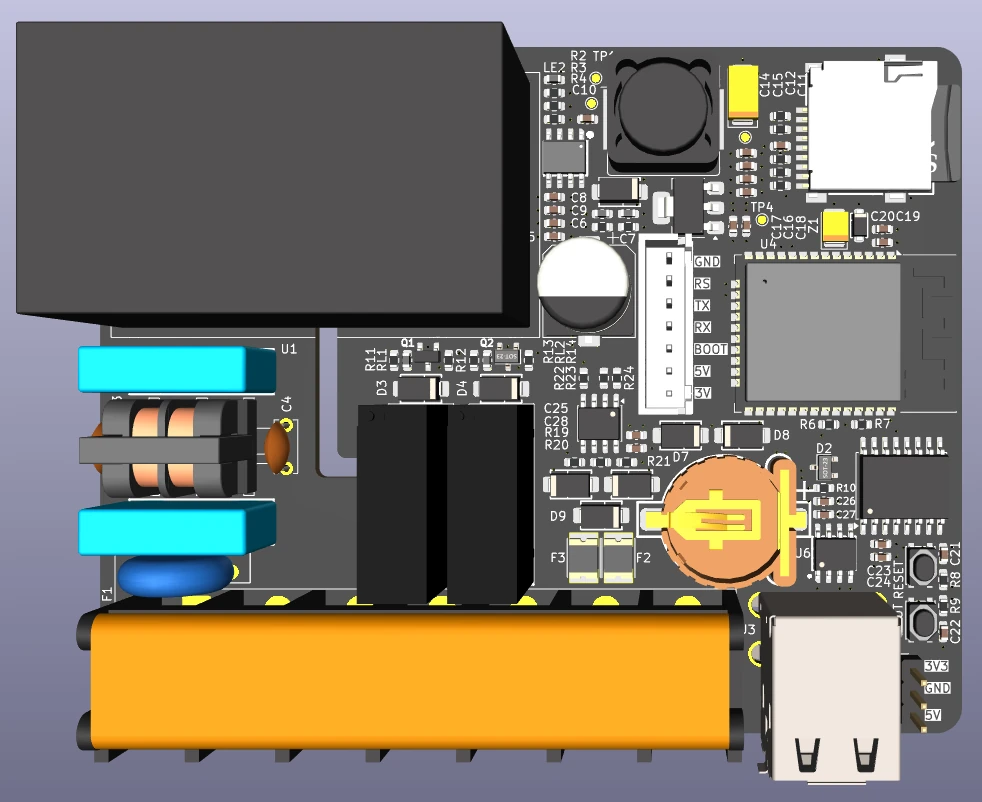
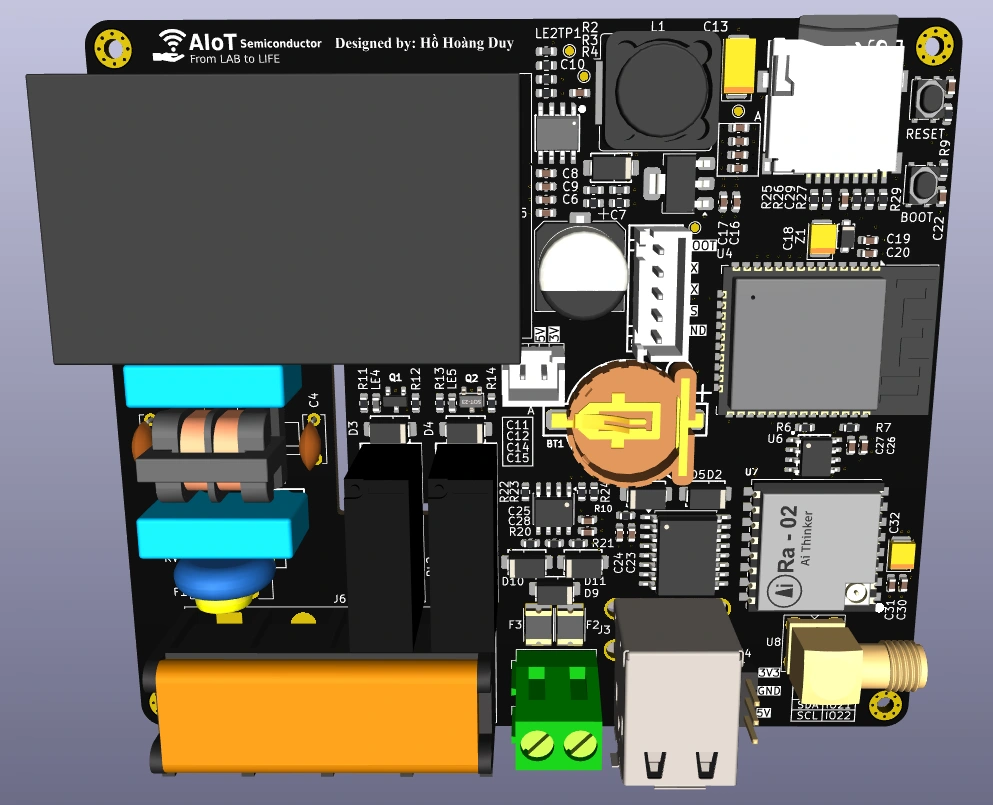
Add ESP32 deployment architecture and update board render

diff --git a/src/app/project-details.css b/src/app/project-details.css
@@ -26,3 +26,5 @@
 .interactive-bom{overflow:hidden;border:1px solid #62576b;border-radius:7px;background:#17171d;min-width:0}.interactive-bom-toolbar{display:flex;align-items:center;justify-content:space-between;gap:16px;flex-wrap:wrap;padding:16px 18px;border-bottom:1px solid #514858;background:#211d28}.interactive-bom-toolbar>div:first-child{display:flex;flex-direction:column;gap:6px}.interactive-bom-toolbar span{font-size:10px;letter-spacing:.1em;color:#ff9abb;font-weight:700}.interactive-bom-toolbar strong{color:#fff;font-size:14px}.interactive-bom-actions{display:flex;gap:10px;flex-wrap:wrap}.interactive-bom-actions button,.interactive-bom-actions a{display:inline-flex;align-items:center;justify-content:center;min-height:42px;padding:9px 14px;border:1px solid #786b83;border-radius:5px;background:#302637;color:#fff;font-size:12px;font-weight:600}.interactive-bom-actions button:hover,.interactive-bom-actions a:hover{background:#452b3b;border-color:#ff6b9d}.interactive-bom iframe{display:block;width:100%;height:780px;height:clamp(640px,80vh,900px);border:0;background:#fff}.interactive-bom:fullscreen{display:flex;flex-direction:column;border:0;border-radius:0;background:#17171d}.interactive-bom:fullscreen iframe{flex:1;height:auto;min-height:0}.project-documentation .interactive-bom-help{padding:10px 18px;font-size:13px;color:#ffe0a6;background:#292219}.interactive-bom-toolbar:has(+.interactive-bom-help){border-bottom:0}@media(max-width:799px){.interactive-bom-toolbar{padding:12px}.interactive-bom-actions{width:100%}.interactive-bom-actions>*{flex:1}.interactive-bom iframe{height:800px}}
 
 .board-overview strong{color:#fff}.board-feature-cards{display:grid;grid-template-columns:repeat(2,minmax(0,1fr));gap:16px}.board-feature-cards article{display:flex;align-items:flex-start;gap:16px;padding:22px;border:1px solid #45404c;border-radius:12px;background:#1d1b23}.feature-icon{display:grid;place-items:center;flex:none;width:44px;height:44px;border-radius:10px;background:#322331;color:#ff94b7}.board-feature-cards h3{font-size:16px;line-height:1.5;color:#fff}.project-documentation .board-feature-cards p{font-size:14px;line-height:1.75;margin-top:6px;color:#d4d2db}.stackup-summary{display:flex;flex-wrap:wrap;gap:12px;margin-bottom:22px}.stackup-summary>span{padding:10px 14px;border:1px solid #514858;border-radius:6px;color:#d4d2db;font-size:13px}.stackup-summary strong{color:#fff}.stackup-table tbody th::before{content:'';display:inline-block;width:20px;height:6px;margin-right:10px;background:#84818b;vertical-align:middle}.stackup-table tr[data-kind="copper"] th::before{background:#d6b64d}.stackup-table tr[data-kind="core"] th::before{background:#7cab81}.stackup-table tbody th{white-space:nowrap}.stackup-table table{min-width:820px}@media(max-width:699px){.board-feature-cards{grid-template-columns:1fr}.board-feature-cards article{padding:18px}.stackup-summary{flex-direction:column}}
+
+.esp32-deployment{margin:0 0 64px;padding:32px;border:1px solid #514858;border-radius:12px;background:#15151beb}.deployment-eyebrow{color:#ff94b7;font-size:11px;letter-spacing:.12em}.esp32-deployment h2{font-size:28px;margin:12px 0 20px;text-transform:none}.esp32-deployment>p{font-size:15px;line-height:1.9;margin-bottom:18px;color:#d4d2db}.deployment-flow{display:grid;grid-template-columns:2fr .65fr 1.4fr .65fr 1.2fr;align-items:center;gap:14px;margin:28px 0}.deployment-nodes,.deployment-gateway{border:1px solid #65526d;border-radius:10px;padding:18px;background:#211d28}.deployment-flow h3{font-size:16px;text-align:center;color:#fff;margin-bottom:14px}.deployment-node{display:grid;grid-template-columns:1fr 1fr;gap:12px;align-items:center;margin-bottom:18px}.deployment-node figure{margin:0;min-width:0}.deployment-node figcaption{text-align:center;font-size:12px;color:#fff;margin-top:6px}.deployment-node>div{display:flex;flex-direction:column;gap:6px;font-size:10px;color:#d4d2db}.deployment-node strong{color:#ffabc7;font-size:12px}.deployment-nodes>small{font-size:11px;color:#ffabc7}.deployment-gateway p,.deployment-cloud p{font-size:12px;line-height:1.8;text-align:center;margin-top:16px}.deployment-gateway img{width:100%;height:auto}.deployment-link{text-align:center;display:flex;flex-direction:column;gap:8px;align-items:center;color:#ff94b7}.deployment-link>span{font-size:32px}.deployment-link strong{font-size:12px}.deployment-link small{font-size:10px;line-height:1.7;color:#d4d2db}.deployment-cloud{text-align:center}.deployment-cloud svg{width:100%;fill:#3e3154}.deployment-cloud h3{margin-top:6px}.cloud-app{margin:20px auto 0;padding:14px;border:1px solid #65526d;border-radius:8px;max-width:150px;color:#e8deef;font-size:11px}.cloud-app i{display:block;height:18px;background:#302637;border:1px solid #514858;border-radius:4px;margin-top:8px}.esp32-deployment .deployment-caption{border-top:1px solid #514858;padding-top:16px;font-size:12px;margin-bottom:0}.architecture-scroll{overflow-x:auto}.esp32-block-diagram svg{display:block;width:100%;min-width:620px;height:auto}.esp32-block-diagram rect{stroke:#bd7898;stroke-width:1.5;fill:#211d28}.esp32-block-diagram .power-block rect{fill:#302637}.esp32-block-diagram .controller-block rect{fill:#202b37;stroke:#82adbe}.esp32-block-diagram text{fill:#fff;font:600 21px Arial,sans-serif}.esp32-block-diagram .block-file{font:14px Arial,sans-serif;fill:#c4bacf}.esp32-block-diagram .block-bus{font:15px Arial,sans-serif;fill:#ffabc7}.block-wires{stroke:#95bcd6;stroke-width:2}.esp32-block-diagram figcaption{font-size:12px;color:#d4d2db;margin-top:16px}@media(max-width:999px){.deployment-flow{grid-template-columns:1fr;gap:18px}.deployment-nodes,.deployment-gateway,.deployment-cloud{width:100%;max-width:500px;margin:auto}.deployment-gateway img{max-width:220px;margin:auto}.deployment-link>span{transform:rotate(90deg)}.deployment-node figure{max-width:160px}.deployment-cloud svg{max-width:160px}.deployment-node>div{font-size:13px}.deployment-node strong{font-size:14px}}@media(max-width:599px){.esp32-deployment{padding:22px 16px}.esp32-deployment h2{font-size:24px}.deployment-node{gap:14px}.deployment-nodes{padding:16px}}

diff --git a/src/components/BoardDetails.tsx b/src/components/BoardDetails.tsx
@@ -3,6 +3,7 @@ import Image from 'next/image';
 import dynamic from 'next/dynamic';
 import { useEffect, useId, useRef, useState, type KeyboardEvent } from 'react';
 import { label, type Board } from '@/lib/projects';
+import { ESP32BlockDiagram, ESP32Deployment } from './ESP32Architecture';
 
 const PCBViewer=dynamic(()=>import('./pcb-viewer/PCBViewer'),{ssr:false,loading:()=> <p className="pcb-viewer-notice" role="status">Loading PCB viewer…</p>});
 
@@ -73,6 +74,7 @@ export function BoardProjectDetails({board}:{board:Board}) {
     {isDemo&&<p className="revision-demo-message" role="status">Demo revision metadata. The board image and documentation below are shared previews.</p>}
     <div className="detail-hero"><div className="detail-summary"><h1>{board.name}</h1><section className="board-overview" aria-labelledby="board-overview-title"><h2 id="board-overview-title">Overview</h2>{board.overview?.length?board.overview.map((paragraph,index)=><p key={index}>{paragraph.title&&<strong>{paragraph.title}: </strong>}{paragraph.text}</p>):<p>{board.description}</p>}</section><div className="notice">{board.disclaimer}</div>{board.specs.length>0&&<dl className="specs">{board.specs.map(spec=><div key={spec.label}><dt>{spec.label}</dt><dd>{spec.value}</dd></div>)}</dl>}{board.repoUrl&&<a className="button" href={board.repoUrl} target="_blank" rel="noopener noreferrer">Project repository ↗</a>}</div><BoardGallery board={board}/></div>
     <FeatureTabs board={board}/>
+    {board.slug==='esp32-devkit'&&<ESP32Deployment/>}
   </>;
 }
 
@@ -100,7 +102,7 @@ export function FeatureTabs({ board }: { board: Board }) {
   return <section className="project-documentation" aria-label="Project documentation"><div className="tablist" role="tablist" aria-label="Engineering sections">{tabs.map((tab,index)=><button ref={element=>{buttons.current[index]=element;}} key={tab} role="tab" id={id+'-tab-'+index} aria-controls={id+'-panel-'+index} aria-selected={active===index} tabIndex={active===index?0:-1} onClick={()=>selectTab(index)} onKeyDown={event=>keyboard(event,index)}>{tab}</button>)}</div><div className="tabpanel" role="tabpanel" tabIndex={0} id={id+'-panel-'+active} aria-labelledby={id+'-tab-'+active}>
     <h2>{title}</h2>
     {title==='Key Features'&&(board.featureCards?.length?<div className="board-feature-cards">{board.featureCards.map(feature=><article key={feature.title}><span className="feature-icon" aria-hidden="true"><FeatureIcon kind={feature.icon}/></span><div><h3>{feature.title}</h3><p>{feature.text}</p></div></article>)}</div>:<ul className="board-feature-list">{board.features.map(feature=><li key={feature}>{feature}</li>)}</ul>)}
-    {title==='Block Diagram'&&(diagram?<figure className="board-diagram"><Image src={diagram.src} width={1000} height={600} alt={diagram.alt}/><figcaption>{diagram.alt}</figcaption></figure>:<DemoBlockDiagram board={board}/>)}
+    {title==='Block Diagram'&&(board.slug==='esp32-devkit'?<ESP32BlockDiagram/>:diagram?<figure className="board-diagram"><Image src={diagram.src} width={1000} height={600} alt={diagram.alt}/><figcaption>{diagram.alt}</figcaption></figure>:<DemoBlockDiagram board={board}/>)}
     {title==='Stackup'&&<>{board.stackupDetails&&<><div className="stackup-summary"><span><strong>{board.stackupDetails.copperLayers}</strong> copper layers</span><span><strong>{board.stackupDetails.totalThicknessMm} mm</strong> total thickness</span><span>Impedance control: <strong>{board.stackupDetails.impedanceControlled?'enabled in KiCad':'disabled'}</strong></span></div><div className="table-scroll stackup-table"><table><caption className="sr-only">ESP32 Devkit PCB stackup, from top to bottom</caption><thead><tr>{['Layer','Type','Material','Thickness','Epsilon R','Loss Tan'].map(column=><th scope="col" key={column}>{column}</th>)}</tr></thead><tbody>{board.stackup?.map(layer=><tr key={layer.layer} data-kind={layer.type.toLowerCase()}><th scope="row">{layer.layer}</th><td>{layer.type}</td><td>{layer.material||'Not specified'}</td><td>{layer.thicknessMm!==undefined?layer.thicknessMm+' mm':'—'}</td><td>{layer.epsilonR??'—'}</td><td>{layer.lossTan??'—'}</td></tr>)}</tbody></table></div></>}{!board.stackup?.length&&<DemoNote>Example 4-layer stackup for layout preview. Actual layer count, materials and thickness are not specified yet.</DemoNote>}{!board.stackupDetails&&<div className="stackup">{layers.map(layer=><div key={layer.layer}><span><b>{layer.layer}</b> · {layer.type}</span><span>{[layer.material,'thicknessMm' in layer&&layer.thicknessMm!==undefined?String(layer.thicknessMm)+' mm':undefined].filter(Boolean).join(' / ')}</span></div>)}</div>}</>}
     {(title==='Preview'||previewVisited)&&<div className="pcb-preview-panel" hidden={title!=='Preview'}>{board.pcbSource?<PCBViewer source={board.pcbSource} active={title==='Preview'}/>:<div className="pcb-source-missing"><h3>PCB source not available yet</h3><p>A KiCad PCB file has not been supplied for this project.</p></div>}{!!board.files?.length&&<div className="board-file-links">{board.files.map(file=><a key={file.href} className="button" href={file.href} download>{file.label} ↓</a>)}</div>}</div>}
     {title==='BOM'&&(board.interactiveBom?<InteractiveBom bom={board.interactiveBom}/>:<>{!board.components?.length&&<DemoNote>Sample parts for layout preview. These are not the project’s actual components or purchasing quantities.</DemoNote>}<BomTable components={board.components?.length?board.components:demoBom}/></>)}

diff --git a/src/components/ESP32Architecture.tsx b/src/components/ESP32Architecture.tsx
@@ -1,0 +1,12 @@
+import Image from 'next/image';
+
+export function ESP32BlockDiagram(){
+ const inputs=[['SHT31','SHT31.kicad_sch','I2C'],['RTC','RTC.kicad_sch','I2C'],['EEPROM','EEPROM.kicad_sch','I2C'],['SD CARD','SDCARD.kicad_sch','SPI']];
+ return <figure className="esp32-block-diagram"><div className="architecture-scroll"><svg viewBox="0 0 1000 660" role="img" aria-labelledby="esp32-block-title esp32-block-desc"><title id="esp32-block-title">ESP32 Devkit system block diagram</title><desc id="esp32-block-desc">220VAC to 24VDC, 5VDC and 3.3VDC supply. SHT31, RTC and EEPROM connect to ESP WROOM 32D over I2C. SD card connects over SPI. Relay and RS485 connect to the controller.</desc><g className="block-wires" fill="none"><path d="M225 225H290V505H225M225 365H290M290 225H365M225 580H365M670 250H775M670 440H775"/></g><g className="power-block"><rect x="30" y="30" width="940" height="90" rx="8"/><text x="52" y="65">220VAC → 24VDC → 5VDC → 3.3VDC</text><text className="block-file" x="52" y="96">Power.kicad_sch</text></g>{inputs.map(([name,file,bus],index)=>{const y=170+index*125;return <g className="peripheral-block" key={name}><rect x="30" y={y} width="195" height="105" rx="8"/><text x="48" y={y+34}>{name}</text><text className="block-file" x="48" y={y+60}>{file}</text><text className="block-bus" x="180" y={y+87}>{bus}</text></g>;})}<g className="controller-block"><rect x="365" y="170" width="305" height="475" rx="10"/><text x="395" y="212">ESP WROOM 32D</text><text className="block-file" x="395" y="240">ESP32.kicad_sch</text><text className="block-bus" x="382" y="290">I2C</text><text className="block-bus" x="382" y="580">SPI</text><text className="block-bus" x="590" y="275">Relay</text><text className="block-bus" x="590" y="465">RS485</text></g>{[['RELAY','Relay.kicad_sch',200],['RS485','RS485.kicad_sch',390]].map(([name,file,y])=><g className="peripheral-block" key={name}><rect x="775" y={Number(y)} width="195" height="105" rx="8"/><text x="795" y={Number(y)+38}>{name}</text><text className="block-file" x="795" y={Number(y)+70}>{file}</text></g>)}</svg></div><figcaption>System blocks and interfaces redrawn from the supplied KiCad hierarchy.</figcaption></figure>;
+}
+
+function BoardImage({label}:{label:string}){return <Image src="/assets/projects/personal/esp32-devkit.webp" width={993} height={805} alt={'ESP32 Devkit configured as '+label}/>;}
+
+export function ESP32Deployment(){
+ return <section className="esp32-deployment" aria-labelledby="deployment-title"><span className="deployment-eyebrow">SYSTEM DEPLOYMENT</span><h2 id="deployment-title">IoT Node → IoT Gateway → IoT Cloud</h2><p>The same board can operate as an IoT Node at a measurement point or as an IoT Gateway collecting data from multiple nodes.</p><p>As a Node, it reads I2C / UART sensors, timestamps measurements with the RTC and sends them to the Gateway over local LoRa. As a Gateway, it aggregates node data, buffers it on microSD when offline and uploads it to IoT Cloud over 2.4GHz Wi-Fi. The deployment model supports up to <strong>256 nodes per Gateway</strong>.</p><div className="deployment-flow"><div className="deployment-nodes"><h3>IoT Nodes</h3>{['Node 1','Node n'].map(label=><div className="deployment-node" key={label}><figure><BoardImage label={label}/><figcaption>{label}</figcaption></figure><div><strong>Sensors</strong><span>I2C · 3.3V / 5V</span><span>UART · Modbus</span><span>SHT31 · BME280 · CO₂</span></div></div>)}<small>Up to 256 nodes per Gateway</small></div><div className="deployment-link"><span aria-hidden="true">⇢</span><strong>Local LoRa</strong><small>1–1.5 km reported urban testing</small></div><div className="deployment-gateway"><h3>IoT Gateway</h3><BoardImage label="Gateway"/><p>Aggregate sensor data<br/>RTC timestamps<br/>microSD offline buffer</p></div><div className="deployment-link"><span aria-hidden="true">→</span><strong>Wi-Fi</strong><small>2.4GHz</small></div><div className="deployment-cloud"><svg viewBox="0 0 180 110" aria-hidden="true"><path d="M35 95C0 95 0 45 30 40 25 5 80-8 97 25 125-2 165 20 160 48 190 65 177 95 155 95Z"/></svg><h3>IoT Cloud</h3><div className="cloud-app"><span>Web application</span><i/><i/><i/></div><p>Remote monitoring<br/>Data history</p></div></div><p className="deployment-caption">LoRa: theoretical range 10–15 km; reported testing 1–1.5 km in an urban environment with trees and buildings. Actual range depends on deployment conditions.</p></section>;
+}

diff --git a/tests/e2e/esp32-documentation.spec.ts b/tests/e2e/esp32-documentation.spec.ts
@@ -2,10 +2,17 @@ import {test,expect} from '@playwright/test';
 test('ESP32 documentation matches supplied content and remains responsive',async({page})=>{
  await page.goto('/projects/esp32-devkit/');
  await expect(page.locator('.board-overview p')).toHaveCount(3);
+ await expect(page.locator('.detail-summary')).not.toContainText('HMI');
+ await expect(page.locator('.board-feature-cards')).not.toContainText('HMI');
+ await expect(page.locator('.esp32-deployment')).toContainText('256 nodes');
+ await expect(page.locator('.esp32-deployment img')).toHaveCount(3);
  await expect(page.locator('.board-overview')).toContainText('220VAC');
  await expect(page.locator('.board-feature-cards article')).toHaveCount(8);
  await expect(page.locator('.board-feature-cards')).toContainText('2 ON/OFF relay channels');
  await page.screenshot({path:'.wrangler/pcb-viewer-qa/documentation-desktop.png',fullPage:true});
+ await page.getByRole('tab',{name:'Block Diagram',exact:true}).click();
+ await expect(page.getByRole('img',{name:'ESP32 Devkit system block diagram'})).toBeVisible();
+ await expect(page.locator('.esp32-block-diagram')).toContainText('RS485');
  await page.getByRole('tab',{name:'Stackup',exact:true}).click();
  await expect(page.locator('.stackup-table tbody tr')).toHaveCount(9);
  await expect(page.locator('.stackup-table')).toContainText('1.501 mm');
